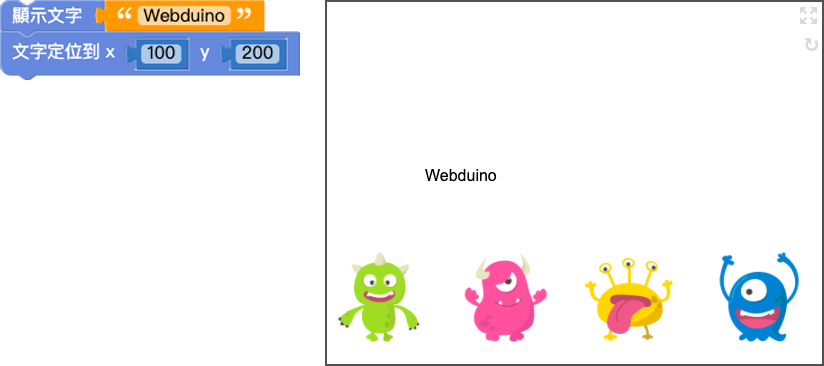
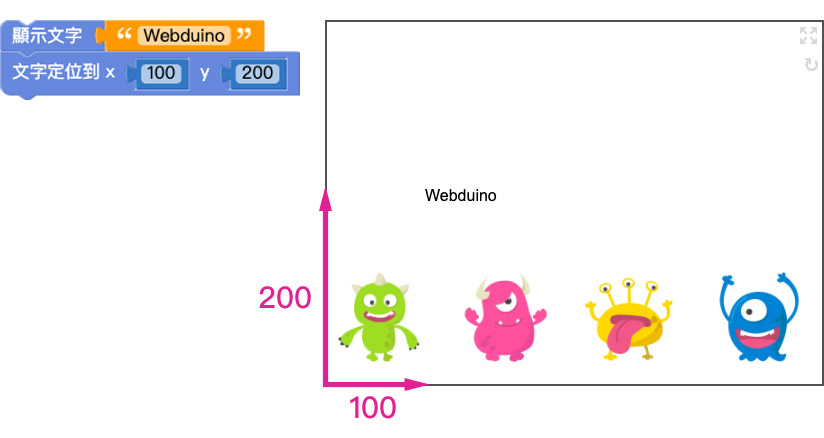
1.26 4

diff --git a/doc/zh-tw/education/extension/text-object.md b/doc/zh-tw/education/extension/text-object.md
@@ -1,6 +1,6 @@
 # Web:Bit 擴充功能：文字
 
-前面介紹的 " 基本功能 " 中的文字積木是定義出文字及字串的內容；而 " 擴充功能 " 中的文字積木則是可以改變文字的樣式及位置，並且將文字直接顯示在小怪獸互動舞台中。
+前面介紹的 " 基本功能 " 中的文字積木是定義出文字及字串的內容；而 " 擴充功能 " 中的文字積木則是可以改變文字的樣式及位置，並且將文字直接顯示在小怪獸互動舞台中。搭配 Web:Bit 教育版中的其它功能，可以進一步做出更多變化。
 
 ## 文字積木清單
 
@@ -20,8 +20,7 @@
 
 ![Web:Bit 文字](../../../../media/zh-tw/education/extension/text-object-03.jpg)
 
-設定 x 為 100、y 為 200，按下執行，可以看到 Webduino 文字在原點往右 100、往上 200
-的位置。
+設定 x 為 100、y 為 200，按下執行，可以看到 Webduino 文字在原點 ( 小怪獸舞台左下角 ) 往右 100、往上 200 的位置。
 
 ![Web:Bit 文字](../../../../media/zh-tw/education/extension/text-object-04.jpg)
 
@@ -69,13 +68,13 @@
 
 ![Web:Bit 文字](../../../../media/zh-tw/education/extension/text-object-11.jpg)
 
-將「文字透明度」積木搭配「文字顏色」積木，設定透明度為 70，按下執行，顯示文字的顏色會比原本顏色較淺。
+將「文字透明度」積木搭配「文字顏色」積木，設定透明度為 70，按下執行，顯示文字的顏色會比原本顏色較淺。
 
 ![Web:Bit 文字](../../../../media/zh-tw/education/extension/text-object-12.jpg)
 
 ## 文字階層{{text-object07}}
 
-「文字階層」積木能夠控制文字的上下位置，
+「文字階層」積木能夠控制文字的上下順序位置。
 
 ![Web:Bit 文字](../../../../media/zh-tw/education/extension/text-object-13.jpg)
 
@@ -90,22 +89,13 @@
 
 ![Web:Bit 文字](../../../../media/zh-tw/education/extension/text-object-15.jpg)
 
-先使用「顯示文字」積木設定文字，再後方加上「隱藏文字」積木，按下執行，可以看到原本預設的文字直接隱藏。
+先使用「顯示文字」積木設定文字，再後方加上「隱藏文字」積木，按下執行，可以看到原本預設的文字直接被隱藏。
 
 ![Web:Bit 文字](../../../../media/zh-tw/education/extension/text-object-16.jpg)
 
 ## 文字還原預設值{{text-object09}}
 
-「文字還原預設值」積木可以把前面對文字做的變化都還原成預設值，
-
-文字預設值：
-- 位置：小怪獸舞台左上角
-- 大小：16
-- 行距：normal
-- 顏色：黑色
-- 透明度：100
-- 階層：預設 ( 小怪獸下方 )
-- 隱藏：正常顯示
+「文字還原預設值」積木可以把前面程式積木對文字做的變化都還原成預設值，
 
 ![Web:Bit 文字](../../../../media/zh-tw/education/extension/text-object-17.jpg)
 
@@ -117,7 +107,16 @@
 
 ![Web:Bit 文字](../../../../media/zh-tw/education/extension/text-object-19.jpg)
 
-若是在「文字還原預設值」積木後下方再加入其它積木，執行後就會再次改變文字樣式。
+若是在「文字還原預設值」積木下方再加入其它積木，執行後就會再次改變文字樣式。
 
 ![Web:Bit 文字](../../../../media/zh-tw/education/extension/text-object-20.jpg)
+
+> 文字預設值：
+> - 位置：小怪獸舞台左上角
+> - 大小：16
+> - 行距：normal
+> - 顏色：黑色
+> - 透明度：100
+> - 階層：預設 ( 小怪獸下方 )
+> - 隱藏：正常顯示
 
